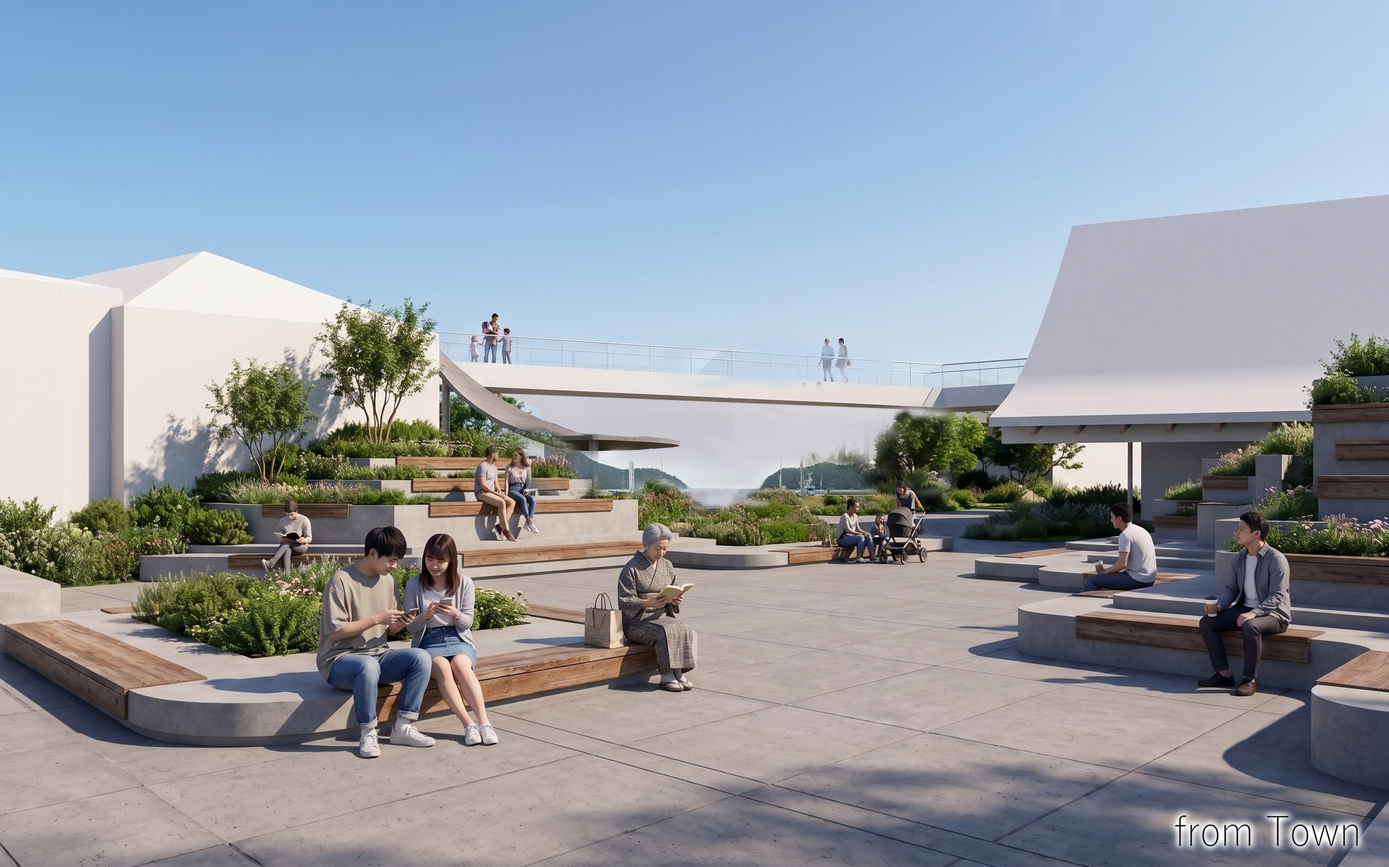
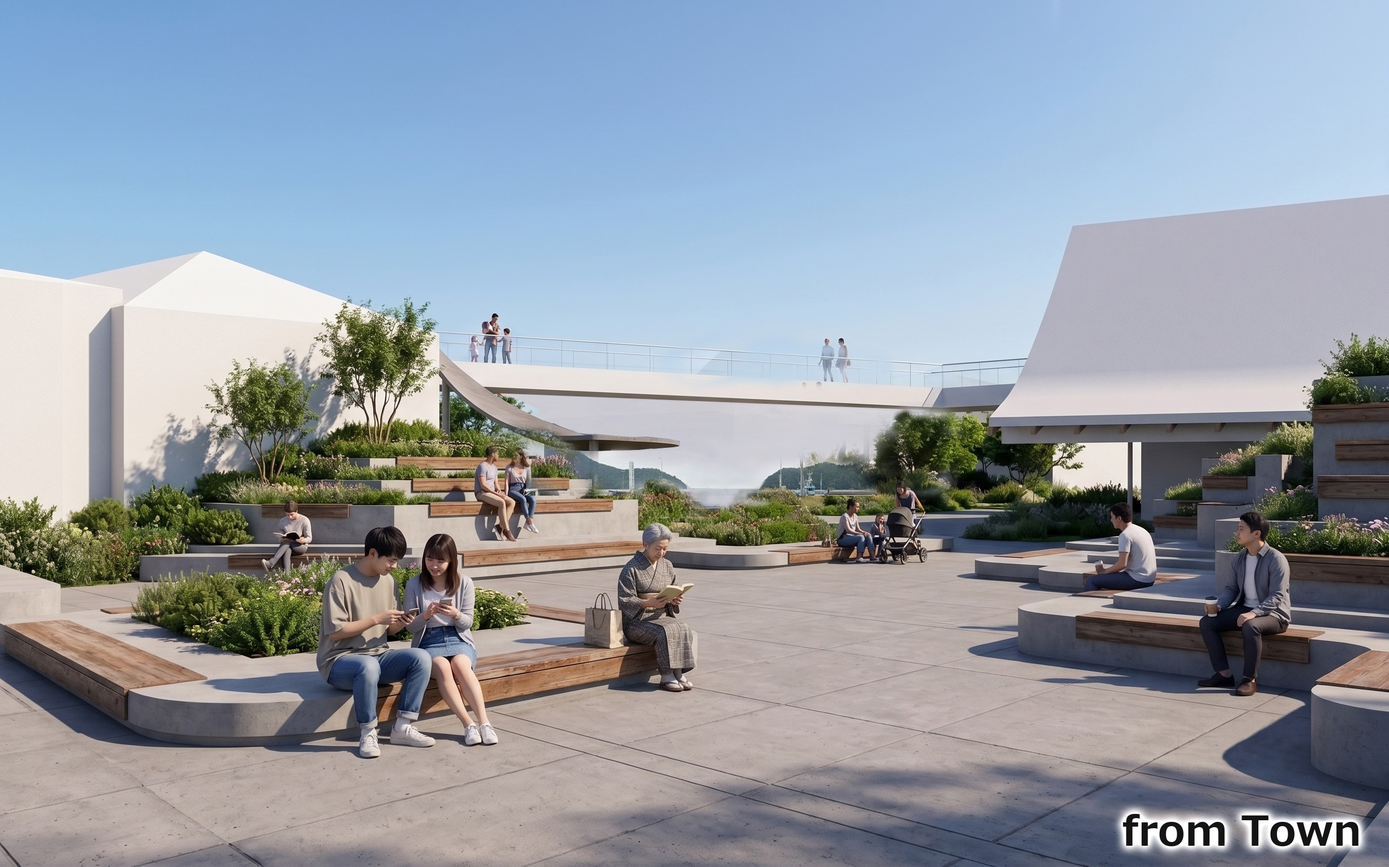
Oki seaside plazaの本文冒頭を変更しキャプションを太ゴシックに変更
冒頭を「島根県隠岐の島町　海の見える交流館周辺広場の計画」に。
from Sea / from Townはimg1の注記と同様のメイリオ太字（サイズは維持）。

Changed region(s): [[0.805, 0.9062, 0.9908, 1.0]]

diff --git a/works/Oki seaside plaza/Oki seaside plaza.html b/works/Oki seaside plaza/Oki seaside plaza.html
@@ -34,7 +34,7 @@
     ja: {
       title: "隠岐島うみまち交流広場",
     description: `
-島根県隠岐の島町「海の見える交流館」周辺広場の計画<br>
+島根県隠岐の島町　海の見える交流館周辺広場の計画<br>
 江戸時代から北前船の風待ち港として栄えた島の玄関口、西郷港。ここには、湾口の2つの山（愛宕山と金峯山）によってフレーミングされた、海と街のドラマチックな風景が広がります。私たちはこれを「隠岐の原風景」と捉え、湾口と街を結ぶ線を「海とまちをむすぶ軸」として計画の背骨に据えました。<br>
 海側には、交流館の屋根と対になってゲートを形作るステージ付きの中心広場を配置。そこから街側へ進むと、隠岐の地層をイメージした段差状のベンチと在来植物のポケットパークへと続き、賑わいから憩いへと空間が連鎖します。<br>
 フェリーを待つ時間や人を迎える時間を海を眺めながら心地よく過ごせる、「現代の風待ち港」の再生を目指した計画です。<br>
@@ -84,7 +84,7 @@ The plan aims to revive the "kazamachi port" for the present day, where time spe
   <main class="project-description">
     <h1 id="title">隠岐島うみまち交流広場</h1>
     <p id="description">
-島根県隠岐の島町「海の見える交流館」周辺広場の計画<br>
+島根県隠岐の島町　海の見える交流館周辺広場の計画<br>
 江戸時代から北前船の風待ち港として栄えた島の玄関口、西郷港。ここには、湾口の2つの山（愛宕山と金峯山）によってフレーミングされた、海と街のドラマチックな風景が広がります。私たちはこれを「隠岐の原風景」と捉え、湾口と街を結ぶ線を「海とまちをむすぶ軸」として計画の背骨に据えました。<br>
 海側には、交流館の屋根と対になってゲートを形作るステージ付きの中心広場を配置。そこから街側へ進むと、隠岐の地層をイメージした段差状のベンチと在来植物のポケットパークへと続き、賑わいから憩いへと空間が連鎖します。<br>
 フェリーを待つ時間や人を迎える時間を海を眺めながら心地よく過ごせる、「現代の風待ち港」の再生を目指した計画です。<br>
